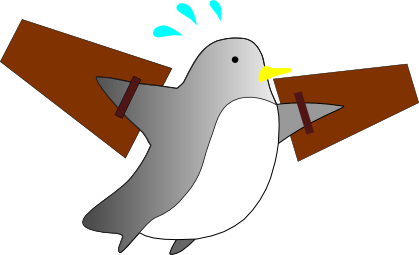
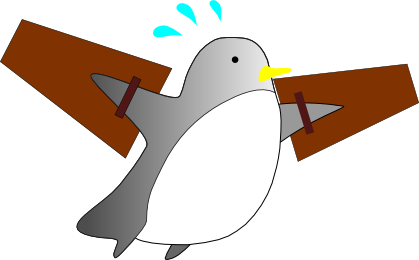
キャライメージの修正

diff --git a/FirstGame/GameScene.m b/FirstGame/GameScene.m
@@ -159,7 +159,7 @@ SKTexture *_pengin2;
             SKNode *player = [self childNodeWithName:kPlayer];
             SKTexture *pengin1 = [SKTexture textureWithImageNamed:@"pengin1"];
             SKTexture *pengin2 = [SKTexture textureWithImageNamed:@"pengin2"];
-            SKAction *walkPengin = [SKAction animateWithTextures:@[pengin1,pengin2] timePerFrame:0.1];
+            SKAction *walkPengin = [SKAction animateWithTextures:@[pengin1,pengin2] timePerFrame:0.2];
             SKAction *walkAction = [SKAction repeatActionForever:walkPengin];
             [player runAction:walkAction];
             
@@ -206,12 +206,11 @@ SKTexture *_pengin2;
         sprite.physicsBody.velocity = CGVectorMake(0, 600);
         
         /******* パラパラアニメの実験 ******/
-        SKNode *player = [self childNodeWithName:kPlayer];
         SKTexture *pengin3 = [SKTexture textureWithImageNamed:@"pengin3"];
         SKTexture *pengin4 = [SKTexture textureWithImageNamed:@"pengin4"];
         SKAction *jumpPengin = [SKAction animateWithTextures:@[pengin3,pengin4] timePerFrame:0.1];
         SKAction *jumpAction = [SKAction repeatActionForever:jumpPengin];
-        [player runAction:jumpAction];
+        [sprite runAction:jumpAction];
         
         /******* パラパラアニメの実験 ******/
         
@@ -267,7 +266,7 @@ SKTexture *_pengin2;
             SKNode *player = [self childNodeWithName:kPlayer];
             SKTexture *pengin1 = [SKTexture textureWithImageNamed:@"pengin1"];
             SKTexture *pengin2 = [SKTexture textureWithImageNamed:@"pengin2"];
-            SKAction *walkPengin = [SKAction animateWithTextures:@[pengin1,pengin2] timePerFrame:0.1];
+            SKAction *walkPengin = [SKAction animateWithTextures:@[pengin1,pengin2] timePerFrame:0.2];
             SKAction *walkAction = [SKAction repeatActionForever:walkPengin];
             [player runAction:walkAction];
             
